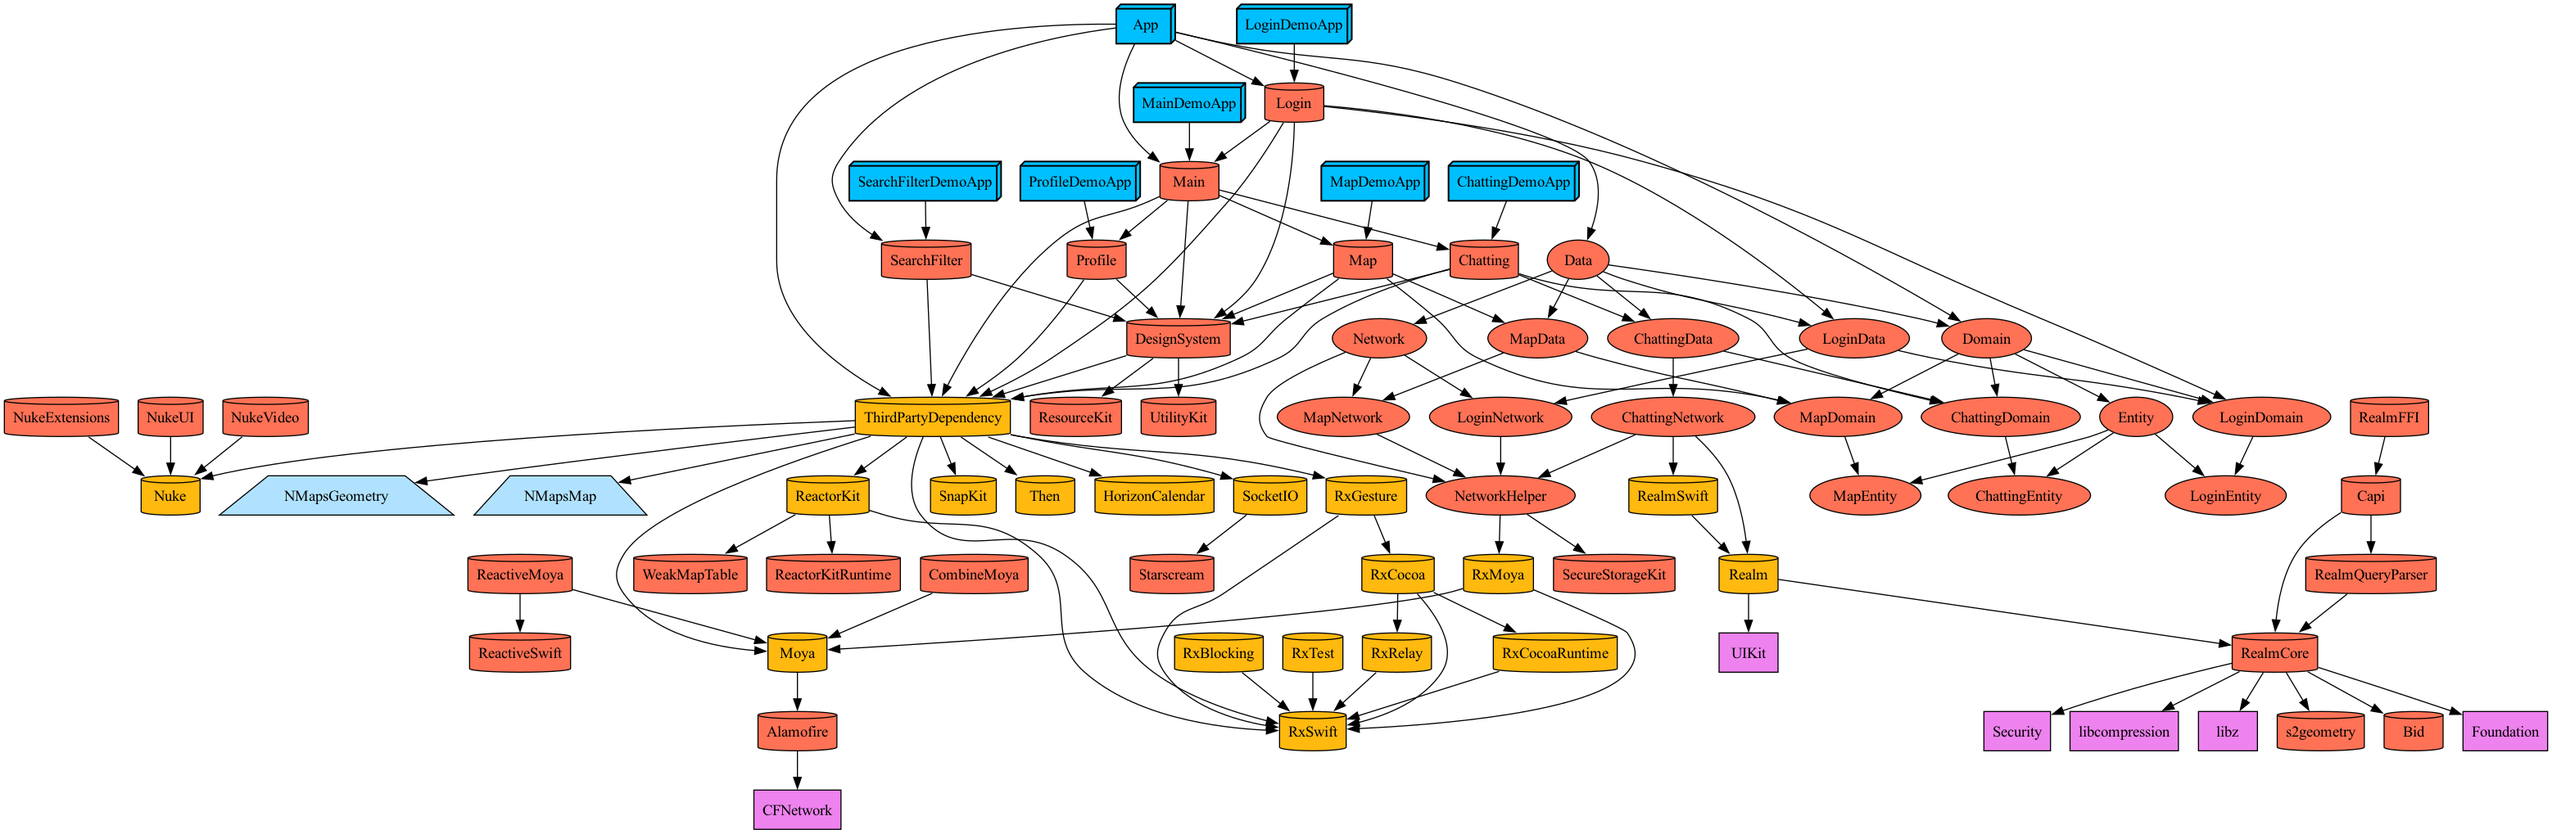
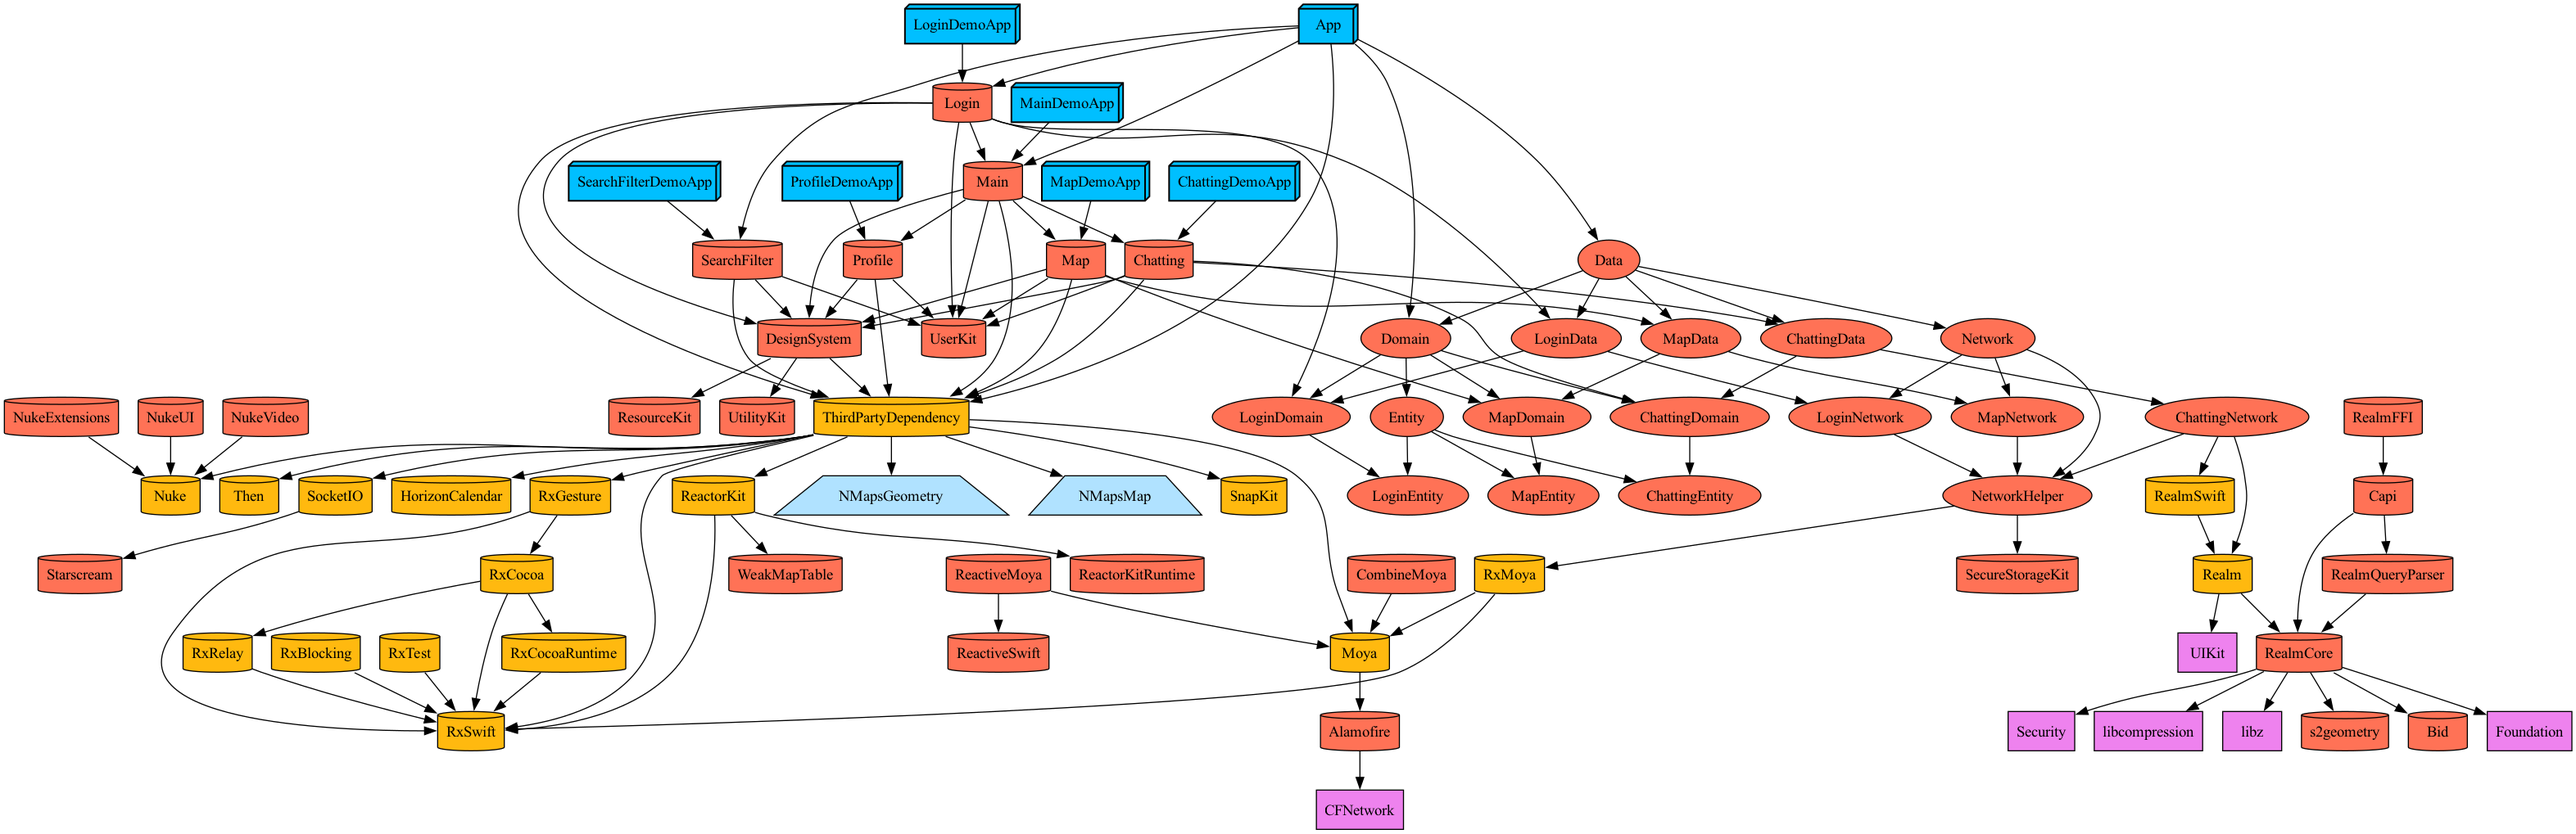
[SETTING] UserKit 추가

diff --git a/Plugins/UserKitPlugin/ProjectDescriptionHelpers/UserKit+Project.swift b/Plugins/UserKitPlugin/ProjectDescriptionHelpers/UserKit+Project.swift
@@ -1,0 +1,27 @@
+//
+//  UserKit+Project.swift
+//  EntityPlugin
+//
+//  Created by 구본의 on 2024/03/15.
+//
+
+import Foundation
+import ProjectDescription
+
+extension TargetDependency {
+  public struct UserKit { }
+}
+
+public extension TargetDependency.UserKit {
+  static let folderName: String = "UserKit"
+  
+  static func project(name: String) -> TargetDependency {
+    return .project(
+      target: "\(name)",
+      path: .relativeToRoot("\(folderName)")
+    )
+  }
+  
+  static let Main = project(name: "UserKit")
+}
+

diff --git a/Tuist/Config.swift b/Tuist/Config.swift
@@ -12,6 +12,7 @@ let config = Config(
     .local(path: .relativeToManifest("../../Plugins/NetworkPlugin")),
     .local(path: .relativeToManifest("../../Plugins/NetworkHelperPlugin")),
     .local(path: .relativeToManifest("../../Plugins/UtilityKitPlugin")),
-    .local(path: .relativeToManifest("../../Plugins/SecureStorageKitPlugin"))
+    .local(path: .relativeToManifest("../../Plugins/SecureStorageKitPlugin")),
+    .local(path: .relativeToManifest("../../Plugins/UserKitPlugin"))
   ]
 )

diff --git a/Feature/Chatting/Project.swift b/Feature/Chatting/Project.swift
@@ -12,6 +12,7 @@ import DataPlugin
 import DesignSystemPlugin
 import DomainPlugin
 import ThirdPartyDependencyPlugin
+import UserKitPlugin
 
 let projectName: String = "Chatting"
 let iOSTargetVersion: String = "16.0"
@@ -23,7 +24,8 @@ let project = Project.makeFrameworkProject(
     .Data.ChattingData.Main,
     .Domain.ChattingDomain.Main,
     .ThirdParty.Main,
-    .DesignSystem.Main
+    .DesignSystem.Main,
+    .UserKit.Main
   ],
   isDynamic: false,
   needTestTarget: false,

diff --git a/Feature/Main/Project.swift b/Feature/Main/Project.swift
@@ -11,6 +11,7 @@ import ProjectDescriptionHelpers
 import DesignSystemPlugin
 import FeaturePlugin
 import ThirdPartyDependencyPlugin
+import UserKitPlugin
 
 let projectName: String = "Main"
 let iOSTargetVersion: String = "16.0"
@@ -23,7 +24,8 @@ let project = Project.makeFrameworkProject(
     .Feature.Map.Main,
     .Feature.Profile.Main,
     .ThirdParty.Main,
-    .DesignSystem.Main
+    .DesignSystem.Main,
+    .UserKit.Main
   ],
   isDynamic: false,
   needTestTarget: false,

diff --git a/Feature/SearchFilter/Project.swift b/Feature/SearchFilter/Project.swift
@@ -12,6 +12,7 @@ import DataPlugin
 import DesignSystemPlugin
 import DomainPlugin
 import ThirdPartyDependencyPlugin
+import UserKitPlugin
 
 let projectName: String = "SearchFilter"
 let iOSTargetVersion: String = "16.0"
@@ -21,7 +22,8 @@ let project = Project.makeFrameworkProject(
   iOSTargetVersion: iOSTargetVersion,
   dependencies: [
     .ThirdParty.Main,
-    .DesignSystem.Main
+    .DesignSystem.Main,
+    .UserKit.Main
   ],
   isDynamic: false,
   needTestTarget: false,

diff --git a/Feature/Login/Project.swift b/Feature/Login/Project.swift
@@ -13,6 +13,7 @@ import DesignSystemPlugin
 import DomainPlugin
 import FeaturePlugin
 import ThirdPartyDependencyPlugin
+import UserKitPlugin
 
 let projectName: String = "Login"
 let iOSTargetVersion: String = "16.0"
@@ -25,7 +26,8 @@ let project = Project.makeFrameworkProject(
     .DesignSystem.Main,
     .Domain.LoginDomain.Main,
     .Data.LoginData.Main,
-    .Feature.Main.Main
+    .Feature.Main.Main,
+    .UserKit.Main
   ],
   isDynamic: false,
   needTestTarget: false,

diff --git a/Feature/Profile/Project.swift b/Feature/Profile/Project.swift
@@ -12,6 +12,7 @@ import DataPlugin
 import DesignSystemPlugin
 import DomainPlugin
 import ThirdPartyDependencyPlugin
+import UserKitPlugin
 
 let projectName: String = "Profile"
 let iOSTargetVersion: String = "16.0"
@@ -21,7 +22,8 @@ let project = Project.makeFrameworkProject(
   iOSTargetVersion: iOSTargetVersion,
   dependencies: [
     .ThirdParty.Main,
-    .DesignSystem.Main
+    .DesignSystem.Main,
+    .UserKit.Main
   ],
   isDynamic: false,
   needTestTarget: false,

diff --git a/Feature/Map/Project.swift b/Feature/Map/Project.swift
@@ -12,6 +12,7 @@ import DataPlugin
 import DesignSystemPlugin
 import DomainPlugin
 import ThirdPartyDependencyPlugin
+import UserKitPlugin
 
 let projectName: String = "Map"
 let iOSTargetVersion: String = "16.0"
@@ -23,7 +24,8 @@ let project = Project.makeFrameworkProject(
     .Data.MapData.Main,
     .Domain.MapDomain.Main,
     .ThirdParty.Main,
-    .DesignSystem.Main
+    .DesignSystem.Main,
+    .UserKit.Main
   ],
   isDynamic: false,
   needTestTarget: false,

diff --git a/UserKit/Project.swift b/UserKit/Project.swift
@@ -1,0 +1,22 @@
+//
+//  Project.swift
+//  ProjectDescriptionHelpers
+//
+//  Created by 구본의 on 2024/03/15.
+//
+
+import ProjectDescription
+import ProjectDescriptionHelpers
+
+let projectName: String = "UserKit"
+let iOSTargetVersion: String = "16.0"
+
+let project = Project.makeFrameworkProject(
+  name: projectName,
+  iOSTargetVersion: iOSTargetVersion,
+  dependencies: [],
+  isDynamic: false,
+  needTestTarget: false,
+  needDemoAppTarget: false
+)
+

diff --git a/UserKit/Sources/UserManager.swift b/UserKit/Sources/UserManager.swift
@@ -1,0 +1,25 @@
+//
+//  UserManager.swift
+//  UserManager
+//
+//  Created by 구본의 on 2024/03/15.
+//
+
+import Foundation
+
+public final class UserManager {
+	// MARK: - Property
+	public static let shared: UserManager = UserManager()
+	
+	public var name: String?
+	public var profileImageURL: String?
+	
+	// MARK: - Initialize
+	private init() { }
+	
+	// MARK: - Public Method
+	public func clearUser() {
+		name = nil
+		profileImageURL = nil
+	}
+}

diff --git a/Plugins/UserKitPlugin/Plugin.swift b/Plugins/UserKitPlugin/Plugin.swift
@@ -1,0 +1,11 @@
+//
+//  Plugin.swift
+//  EntityPlugin
+//
+//  Created by 구본의 on 2024/03/15.
+//
+
+import ProjectDescription
+
+let plugin = Plugin(name: "UserKitPlugin")
+

diff --git a/UserKit/Resources/Resource.swift b/UserKit/Resources/Resource.swift
@@ -1,0 +1,10 @@
+//
+//  Resource.swift
+//  ProjectDescriptionHelpers
+//
+//  Created by 구본의 on 2024/03/15.
+//
+
+import Foundation
+
+let userManagerResource: String = ""
